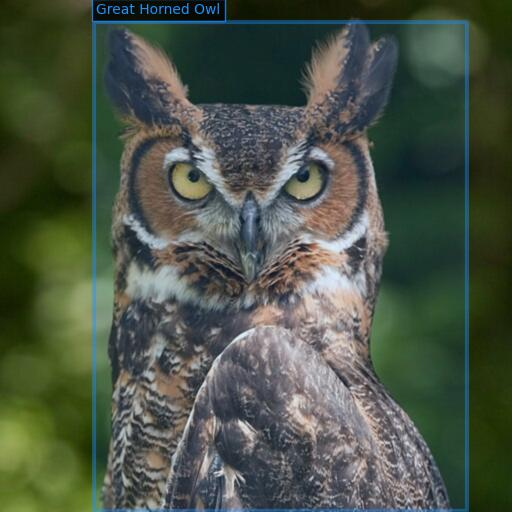
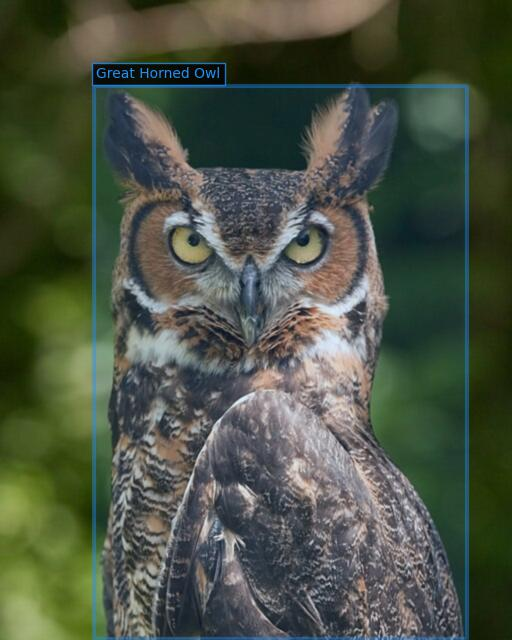
README

diff --git a/README.md b/README.md
@@ -47,7 +47,7 @@ Quickstart
 -------------------
 ```python
 import vipy
-vipy.image.owl().mindim(512).centersquare().show()
+vipy.image.owl().mindim(512).show()
 ```
 <img src="https://raw.githubusercontent.com/visym/vipy/master/docs/vipy_image_owl.jpg" width="700">
 
@@ -58,7 +58,6 @@ vipy.dataset.registry('coco_2014').takeone().show()
 <img src="https://raw.githubusercontent.com/visym/vipy/master/docs/vipy_coco2014_000000290678.jpg" width="700">
 
 ```python
-import vipy
 v = vipy.dataset.registry('youtubeBB').takeone()
 vipy.visualize.montage([im.centersquare().mindim(256).annotate() t in v.trackclip() for im in t.framerate(1)]).show()
 ```
